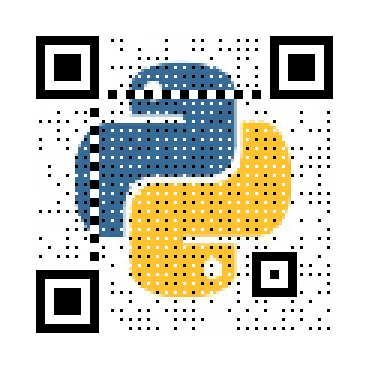
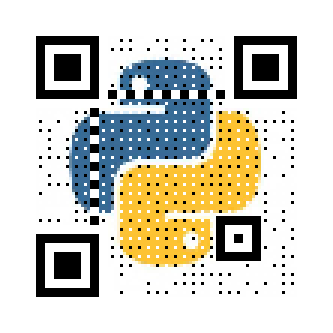
用 Python 生成 & 识别二维码

Changed region(s): [[0.0901, 0.0901, 0.9009, 0.9009], [0.8108, 0.5706, 0.8408, 0.6006], [0.0901, 0.6306, 0.1201, 0.6607]]

diff --git a/qrcode_demo/myqr_demo.py b/qrcode_demo/myqr_demo.py
@@ -5,7 +5,7 @@ words：内容
 version：容错率
 save_name：保存的名字
 '''
-# myqr.run(words='http://www.justdopython.com/',
+# myqr.run(words='https://www.baidu.com/',
 #          version=1,
 # 	     save_name='myqr.png')
 
@@ -13,13 +13,13 @@ save_name：保存的名字
 picture：生成二维码用到的图片
 colorized：False 为黑白，True 为彩色
 '''
-# myqr.run(words='http://www.justdopython.com/',
+# myqr.run(words='https://www.baidu.com/',
 #          version=1,
 #          picture='bg.jpg',
 #          colorized=True,
 # 	       save_name='pmyqr.png')
 
-myqr.run(words='http://www.justdopython.com/',
+myqr.run(words='https://www.baidu.com/',
          version=1,
          picture='my.gif',
          colorized=True,

diff --git a/qrcode_demo/qr_demo.py b/qrcode_demo/qr_demo.py
@@ -1,7 +1,7 @@
 import qrcode
 
 # # 二维码内容
-# data = 'http://www.justdopython.com/'
+# data = 'https://www.baidu.com/'
 # # 生成二维码
 # img = qrcode.make(data=data)
 # # 显示二维码
@@ -22,7 +22,7 @@ qr = qrcode.QRCode(
     border=3,
 )
 # 二维码内容
-data = 'http://www.justdopython.com/'
+data = 'https://www.baidu.com/'
 qr.add_data(data=data)
 # 启用二维码颜色设置
 qr.make(fit=True)
